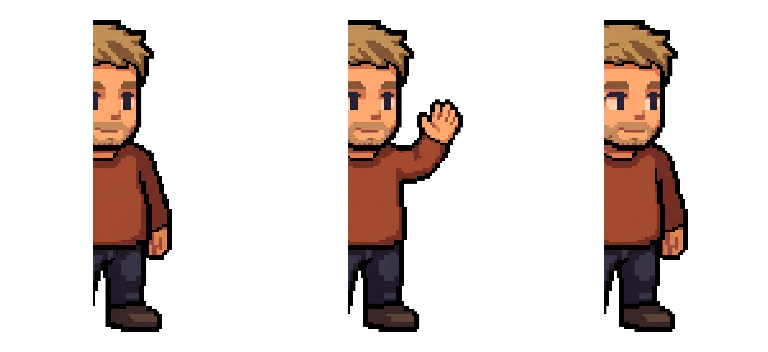
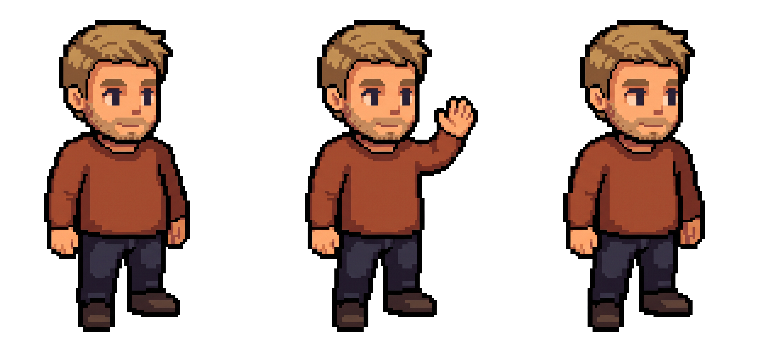
Fix Christopher sprite truncation and preserve full character silhouettes

Changed region(s): [[0.375, 0.0312, 0.625, 0.9688], [0.7188, 0.0312, 0.9375, 0.9688], [0.0312, 0.0312, 0.25, 0.9688]]

diff --git a/public/index.html b/public/index.html
@@ -1,2 +1,2 @@
 <!doctype html>
-<html lang="en"><head><meta charset="UTF-8"><meta name="viewport" content="width=device-width,initial-scale=1"><meta name="theme-color" content="#f7f5f0"><meta name="description" content="Practical, unofficial workshop notes for BIRD Incubator participants. Read, practise and take the next step."><title>BIRD Study Notes</title><link rel="stylesheet" href="assets/style.css"><script src="assets/content.js" defer></script><script src="assets/directory.js" defer></script><script src="assets/projects-data.js" defer></script><script src="assets/projects-model.js" defer></script><script src="assets/projects.js" defer></script><link rel="stylesheet" href="assets/office.css"><script src="assets/office-model.js" defer></script><script src="assets/office-art-data.js" defer></script><script src="assets/office-iso-assets.js" defer></script><script src="assets/office-scene.js" defer></script><script src="assets/office.js" defer></script><script src="assets/app.js" defer></script><meta name="bird-release" content="bird-b2760bf204928756"></head><body><div id="app"></div><noscript>This study guide needs JavaScript to display its English, Croatian and Russian editions.</noscript></body></html>
+<html lang="en"><head><meta charset="UTF-8"><meta name="viewport" content="width=device-width,initial-scale=1"><meta name="theme-color" content="#f7f5f0"><meta name="description" content="Practical, unofficial workshop notes for BIRD Incubator participants. Read, practise and take the next step."><title>BIRD Study Notes</title><link rel="stylesheet" href="assets/style.css"><script src="assets/content.js" defer></script><script src="assets/directory.js" defer></script><script src="assets/projects-data.js" defer></script><script src="assets/projects-model.js" defer></script><script src="assets/projects.js" defer></script><link rel="stylesheet" href="assets/office.css"><script src="assets/office-model.js" defer></script><script src="assets/office-art-data.js" defer></script><script src="assets/office-iso-assets.js" defer></script><script src="assets/office-scene.js" defer></script><script src="assets/office.js" defer></script><script src="assets/app.js" defer></script><meta name="bird-release" content="bird-0f6cd64539b90432"></head><body><div id="app"></div><noscript>This study guide needs JavaScript to display its English, Croatian and Russian editions.</noscript></body></html>
